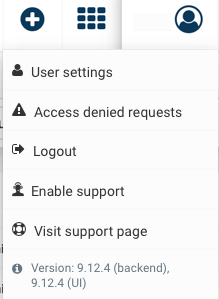
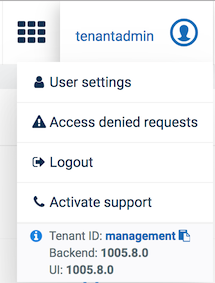
added info on tenant ID in user menu

diff --git a/content/users-guide/getting-started-bundle/user-settings.md b/content/users-guide/getting-started-bundle/user-settings.md
@@ -41,7 +41,7 @@ The **User** menu contains the following items:
 </tr>
 <tr>
 <td style="text-align:left">Version information</td>
-<td style="text-align:left">Shows release information on the Cumulocity version you are using, i.e. 9.16.2, for both Backend and UI. </td>
+<td style="text-align:left">Shows release information on the Cumulocity version you are using, i.e. 10.5.7, for both Backend and UI. Moreover shows the ID of your tenant, which might be required if you request support. Click the copy icon next to the tenant ID to copy it to the clipboard.</td>
 </tr>
 </tbody>
 </table>

diff --git a/content/reference/tenants-bundle/tenants.md b/content/reference/tenants-bundle/tenants.md
@@ -31,4 +31,4 @@ The tenant domain may contain lowercase letters, digits or hyphens. It must star
 
 In general, the tenant domain should be used for communication if it is known. 
 
->**Important**: For support user access, the tenant ID must be used and not the tenant domain.
+>**Important**: For support user access, the tenant ID must be used and not the tenant domain. 
